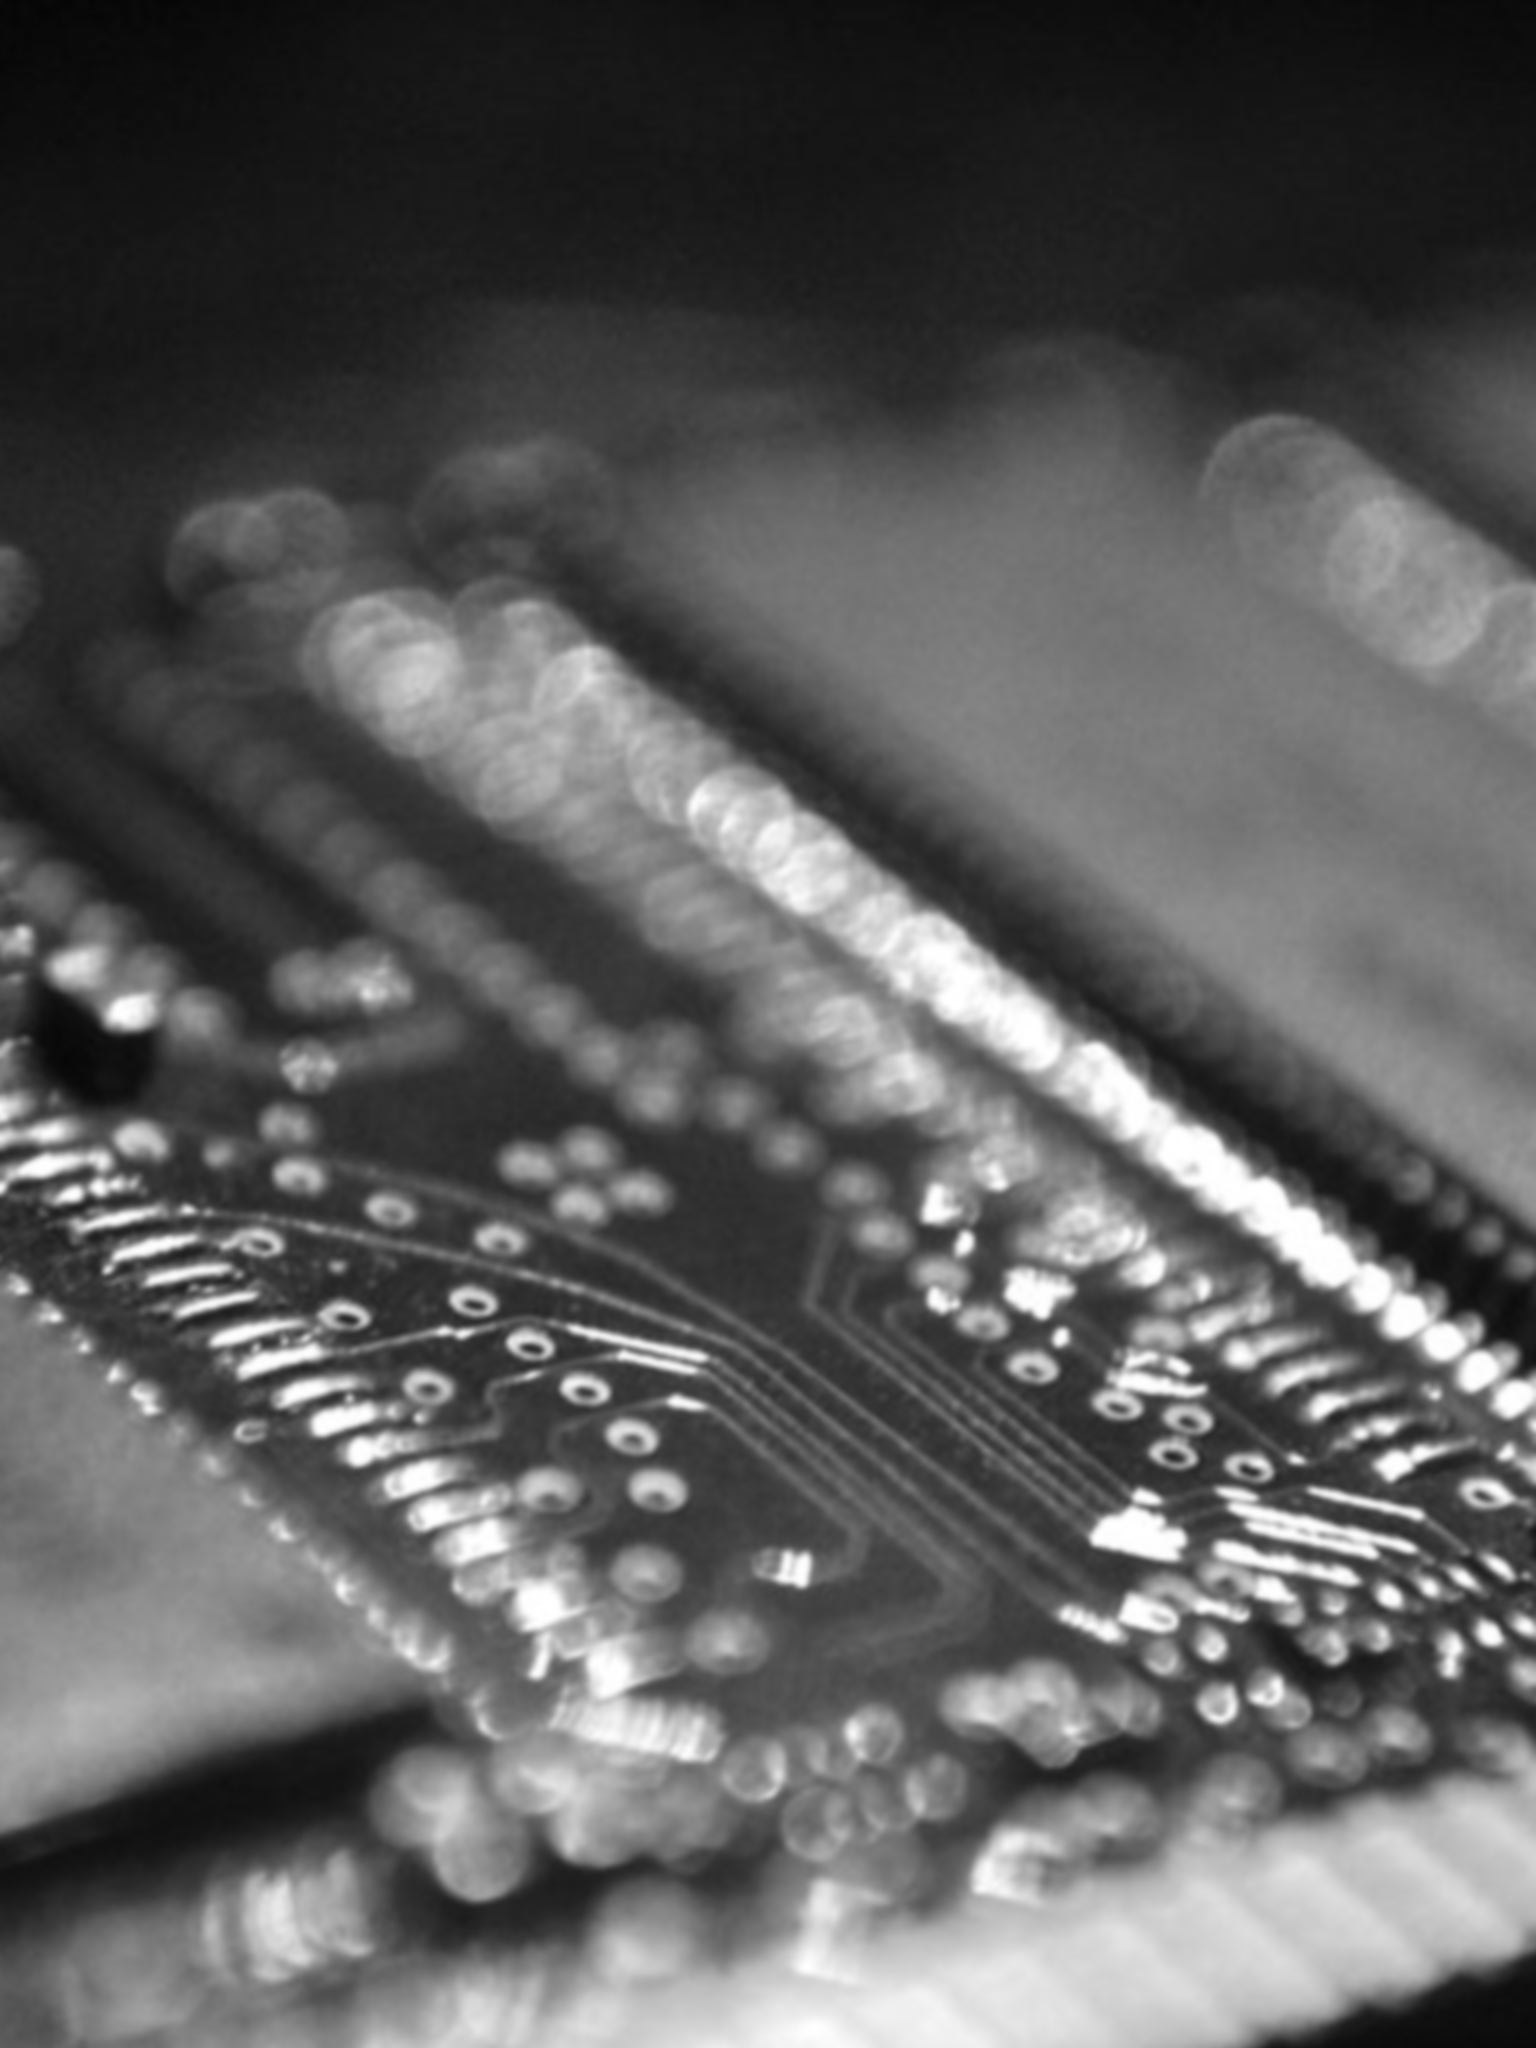
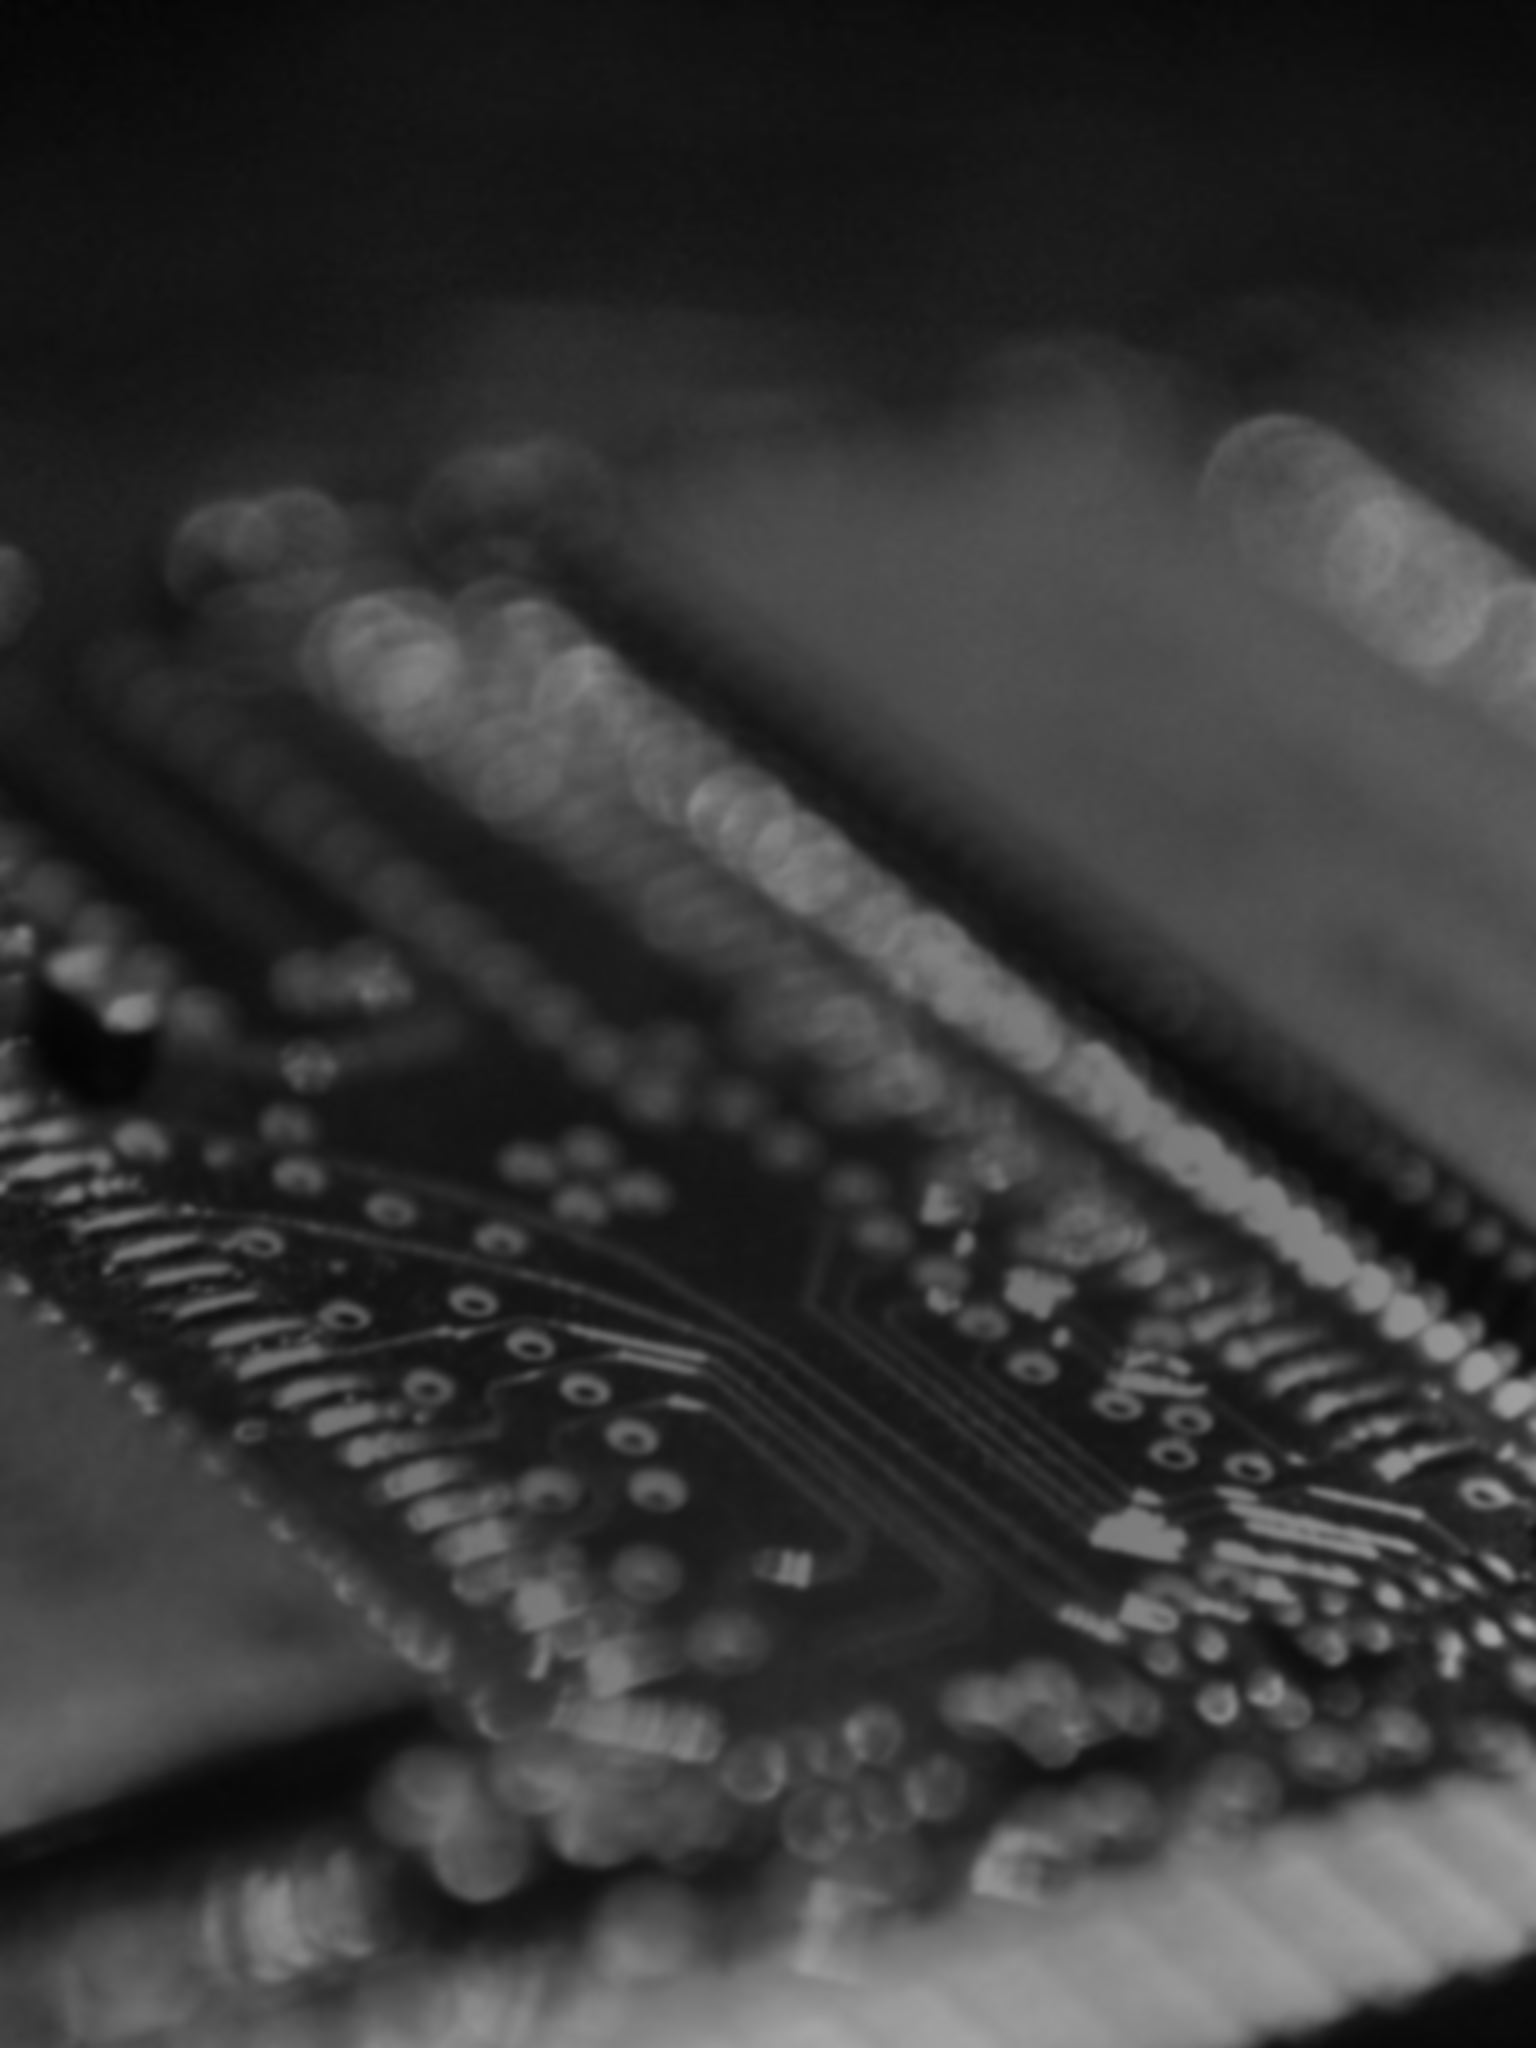
Tutorial pages 2 & 3

diff --git a/Circuitry/Circuitry/TutorialViewController.m b/Circuitry/Circuitry/TutorialViewController.m
@@ -12,8 +12,10 @@
 @property (weak, nonatomic) IBOutlet UIImageView *image1;
 @property (weak, nonatomic) IBOutlet UIImageView *image2;
 @property (weak, nonatomic) IBOutlet UIImageView *image3;
+@property (weak, nonatomic) IBOutlet UIButton *button;
 @property (weak, nonatomic) IBOutlet UIScrollView *scrollView;
 @property (weak, nonatomic) IBOutlet UIPageControl *pageControl;
+@property (nonatomic) BOOL buttonEnabled;
 @end
 
 @implementation TutorialViewController
@@ -32,6 +34,8 @@ static int pageCount = 3;
 {
     [super viewDidLoad];
     [self initScrollView];
+    _buttonEnabled = NO;
+    _button.alpha = 0.0;
 }
 
 - (UIImageView *) imageViewForIndex:(int)index {
@@ -55,6 +59,17 @@ static int pageCount = 3;
     for (; i < pageCount; i++) {
         [self imageViewForIndex:i].alpha = 0.0;
     }
+    BOOL buttonEnabled = (page >= 2 || (page >=1 && offset > 0.3));
+    self.buttonEnabled = buttonEnabled;
+}
+
+- (void) setButtonEnabled:(BOOL) buttonEnabled {
+    if (_buttonEnabled == buttonEnabled) return;
+    _button.enabled = buttonEnabled;
+    [UIView animateWithDuration:0.3 animations:^{
+        _button.alpha = buttonEnabled ? 1.0 : 0.0;
+    }];
+    _buttonEnabled = buttonEnabled;
 }
 
 - (void) configureSubviewLayouts {
@@ -102,6 +117,7 @@ static int pageCount = 3;
     for(int i = 0; i < pageCount; i++) {
         UIViewController *v1 = [self viewControllerAtIndex:i storyboard:self.storyboard];
         [self addChildViewController:v1];
+        v1.view.backgroundColor = [UIColor clearColor];
         v1.view.frame = CGRectMake(i * width, 0, width, height);
         [_scrollView addSubview:v1.view];
         [v1 didMoveToParentViewController:self];

diff --git a/Circuitry/Circuitry/CircuitListViewController.m b/Circuitry/Circuitry/CircuitListViewController.m
@@ -265,7 +265,7 @@
         if (itemPath.row == 0) {
             [[NSException exceptionWithName:@"Could not remove \"Create Circuit\" item from list" reason:nil userInfo:nil] raise];
         }
-        int index = itemPath.row - 1;
+        long index = itemPath.row - 1;
         DocumentListItem *item = [_items objectAtIndex:index];
         [self deleteURL:item.url];
         [indexSet addIndex:index];
@@ -275,12 +275,14 @@
 - (IBAction)optionsPanel:(UIBarButtonItem *)sender {
     UIAlertController *alertController = [UIAlertController alertControllerWithTitle:nil message:nil preferredStyle:UIAlertControllerStyleActionSheet];
     
+    __weak CircuitListViewController *weakSelf = self;
     UIAlertAction *otherAction = [UIAlertAction
                                   actionWithTitle:@"About Circuitry"
                                   style:UIAlertActionStyleDefault
                                   handler:^(UIAlertAction *action)
                                   {
-                                      
+                                      if (!weakSelf) return;
+                                      [weakSelf performSegueWithIdentifier:@"ShowTutorialAgain" sender:weakSelf];
                                   }];
     
     [alertController addAction:otherAction];

diff --git a/Circuitry/Circuitry/TutorialPage1ViewController.m b/Circuitry/Circuitry/TutorialPage1ViewController.m
@@ -1,0 +1,43 @@
+//
+//  TutorialPage1ViewController.m
+//  Circuitry
+//
+//  Created by Anthony Foster on 19/11/2014.
+//  Copyright (c) 2014 Circuitry. All rights reserved.
+//
+
+#import "TutorialPage1ViewController.h"
+#import <QuartzCore/QuartzCore.h>
+
+@interface TutorialPage1ViewController ()
+@property (weak, nonatomic) IBOutlet UILabel *descriptionText;
+
+@end
+
+@implementation TutorialPage1ViewController
+
+- (void)viewDidLoad {
+    [super viewDidLoad];
+    _descriptionText.layer.shadowColor = [[UIColor blackColor] CGColor];
+    _descriptionText.layer.shadowOffset = CGSizeMake(0.0, 2.0);
+    _descriptionText.layer.shadowRadius = 1.0;
+    _descriptionText.layer.shadowOpacity = 0.8;
+    _descriptionText.layer.masksToBounds = NO;
+}
+
+- (void)didReceiveMemoryWarning {
+    [super didReceiveMemoryWarning];
+    // Dispose of any resources that can be recreated.
+}
+
+/*
+#pragma mark - Navigation
+
+// In a storyboard-based application, you will often want to do a little preparation before navigation
+- (void)prepareForSegue:(UIStoryboardSegue *)segue sender:(id)sender {
+    // Get the new view controller using [segue destinationViewController].
+    // Pass the selected object to the new view controller.
+}
+*/
+
+@end

diff --git a/Circuitry/Circuitry/TutorialPage3ViewController.m b/Circuitry/Circuitry/TutorialPage3ViewController.m
@@ -1,0 +1,42 @@
+//
+//  TutorialPage3ViewController.m
+//  Circuitry
+//
+//  Created by Anthony Foster on 19/11/2014.
+//  Copyright (c) 2014 Circuitry. All rights reserved.
+//
+
+#import "TutorialPage3ViewController.h"
+
+@interface TutorialPage3ViewController ()
+@property (weak, nonatomic) IBOutlet UILabel *descriptionText;
+
+@end
+
+@implementation TutorialPage3ViewController
+
+- (void)viewDidLoad {
+    [super viewDidLoad];
+    _descriptionText.layer.shadowColor = [[UIColor blackColor] CGColor];
+    _descriptionText.layer.shadowOffset = CGSizeMake(0.0, 1.0);
+    _descriptionText.layer.shadowRadius = 2.0;
+    _descriptionText.layer.shadowOpacity = 1.0;
+    _descriptionText.layer.masksToBounds = NO;
+}
+
+- (void)didReceiveMemoryWarning {
+    [super didReceiveMemoryWarning];
+    // Dispose of any resources that can be recreated.
+}
+
+/*
+#pragma mark - Navigation
+
+// In a storyboard-based application, you will often want to do a little preparation before navigation
+- (void)prepareForSegue:(UIStoryboardSegue *)segue sender:(id)sender {
+    // Get the new view controller using [segue destinationViewController].
+    // Pass the selected object to the new view controller.
+}
+*/
+
+@end

diff --git a/Circuitry/Circuitry/TutorialPage2ViewController.m b/Circuitry/Circuitry/TutorialPage2ViewController.m
@@ -1,0 +1,37 @@
+//
+//  TutorialPage2ViewController.m
+//  Circuitry
+//
+//  Created by Anthony Foster on 19/11/2014.
+//  Copyright (c) 2014 Circuitry. All rights reserved.
+//
+
+#import "TutorialPage2ViewController.h"
+
+@interface TutorialPage2ViewController ()
+
+@end
+
+@implementation TutorialPage2ViewController
+
+- (void)viewDidLoad {
+    [super viewDidLoad];
+    // Do any additional setup after loading the view.
+}
+
+- (void)didReceiveMemoryWarning {
+    [super didReceiveMemoryWarning];
+    // Dispose of any resources that can be recreated.
+}
+
+/*
+#pragma mark - Navigation
+
+// In a storyboard-based application, you will often want to do a little preparation before navigation
+- (void)prepareForSegue:(UIStoryboardSegue *)segue sender:(id)sender {
+    // Get the new view controller using [segue destinationViewController].
+    // Pass the selected object to the new view controller.
+}
+*/
+
+@end

diff --git a/Circuitry/Circuitry/TutorialPage1ViewController.h b/Circuitry/Circuitry/TutorialPage1ViewController.h
@@ -1,0 +1,13 @@
+//
+//  TutorialPage1ViewController.h
+//  Circuitry
+//
+//  Created by Anthony Foster on 19/11/2014.
+//  Copyright (c) 2014 Circuitry. All rights reserved.
+//
+
+#import <UIKit/UIKit.h>
+
+@interface TutorialPage1ViewController : UIViewController
+
+@end

diff --git a/Circuitry/Circuitry/TutorialPage2ViewController.h b/Circuitry/Circuitry/TutorialPage2ViewController.h
@@ -1,0 +1,13 @@
+//
+//  TutorialPage2ViewController.h
+//  Circuitry
+//
+//  Created by Anthony Foster on 19/11/2014.
+//  Copyright (c) 2014 Circuitry. All rights reserved.
+//
+
+#import <UIKit/UIKit.h>
+
+@interface TutorialPage2ViewController : UIViewController
+
+@end

diff --git a/Circuitry/Circuitry/TutorialPage3ViewController.h b/Circuitry/Circuitry/TutorialPage3ViewController.h
@@ -1,0 +1,13 @@
+//
+//  TutorialPage3ViewController.h
+//  Circuitry
+//
+//  Created by Anthony Foster on 19/11/2014.
+//  Copyright (c) 2014 Circuitry. All rights reserved.
+//
+
+#import <UIKit/UIKit.h>
+
+@interface TutorialPage3ViewController : UIViewController
+
+@end
